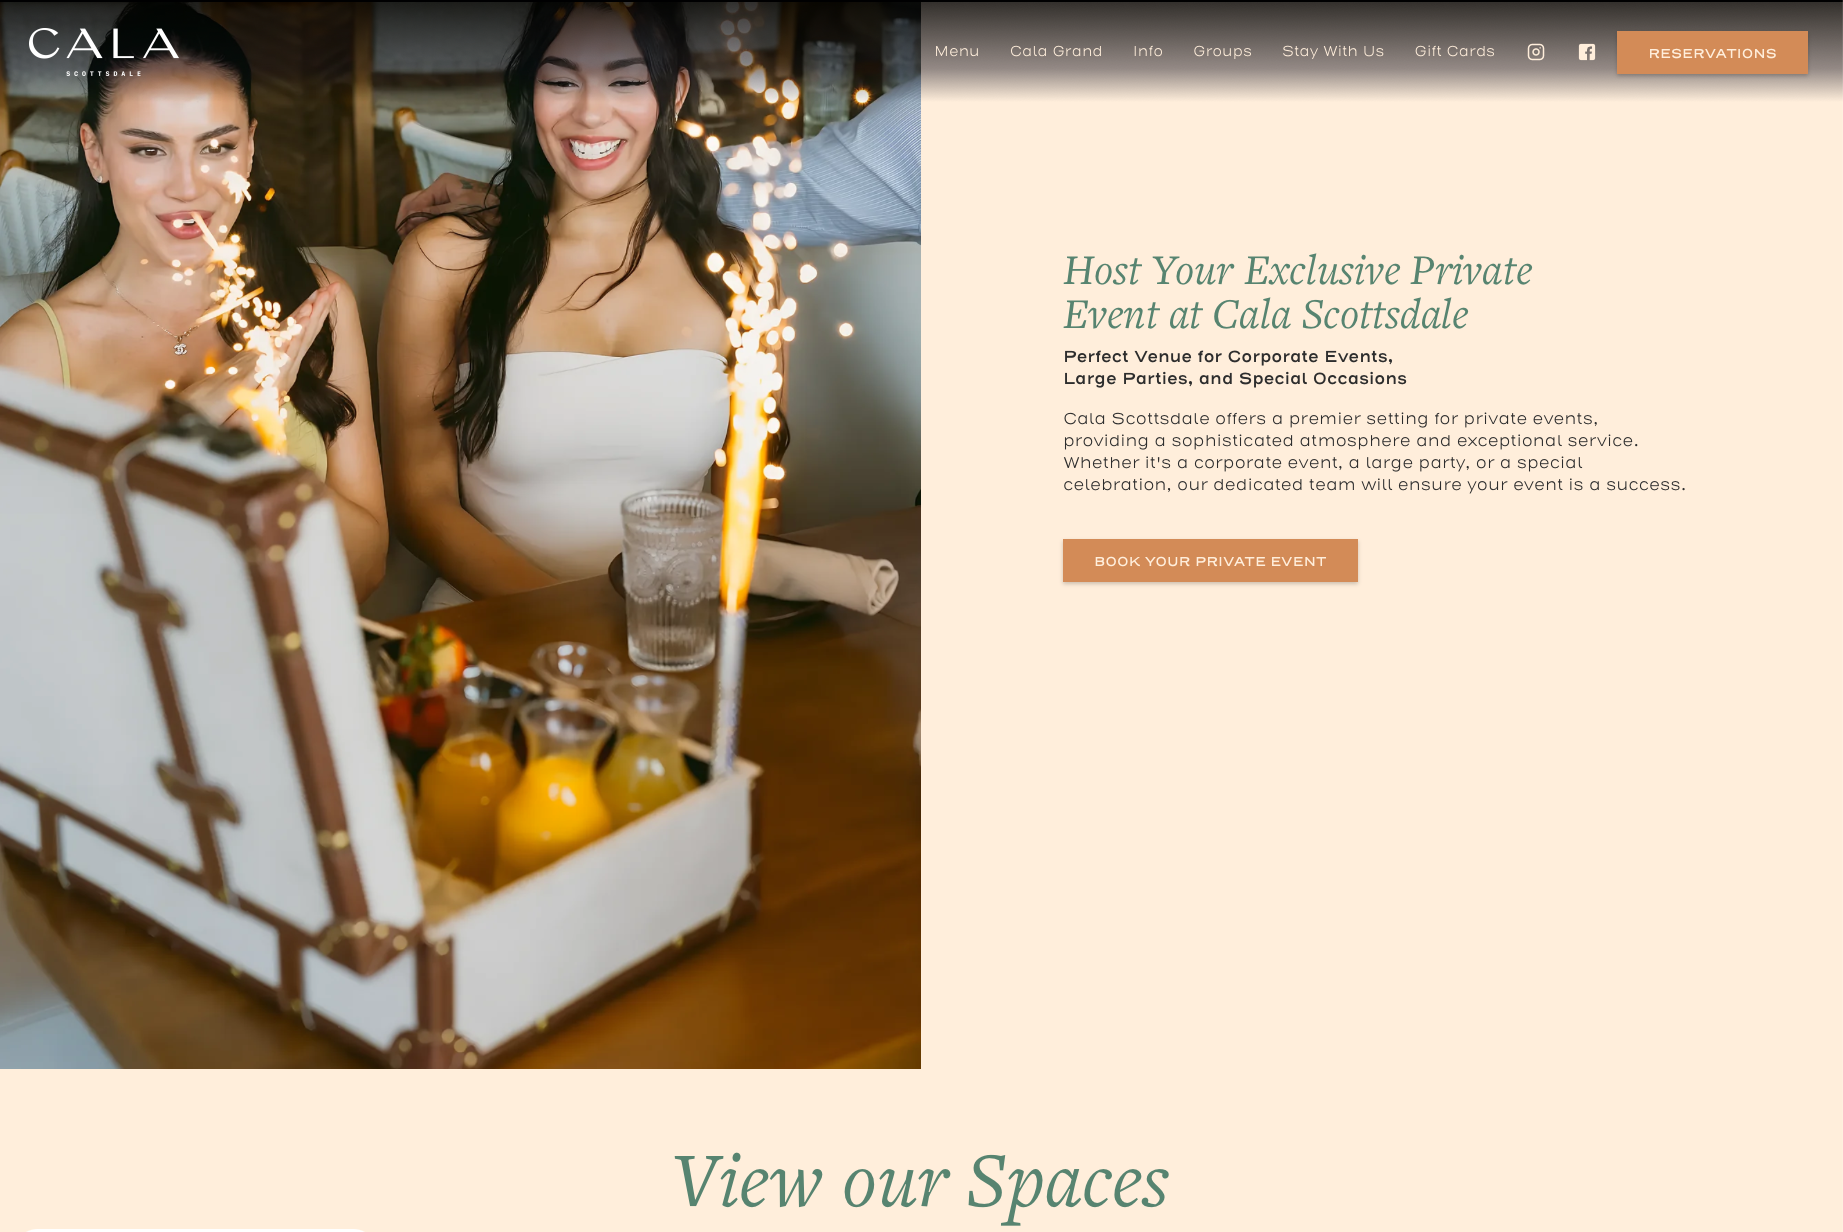
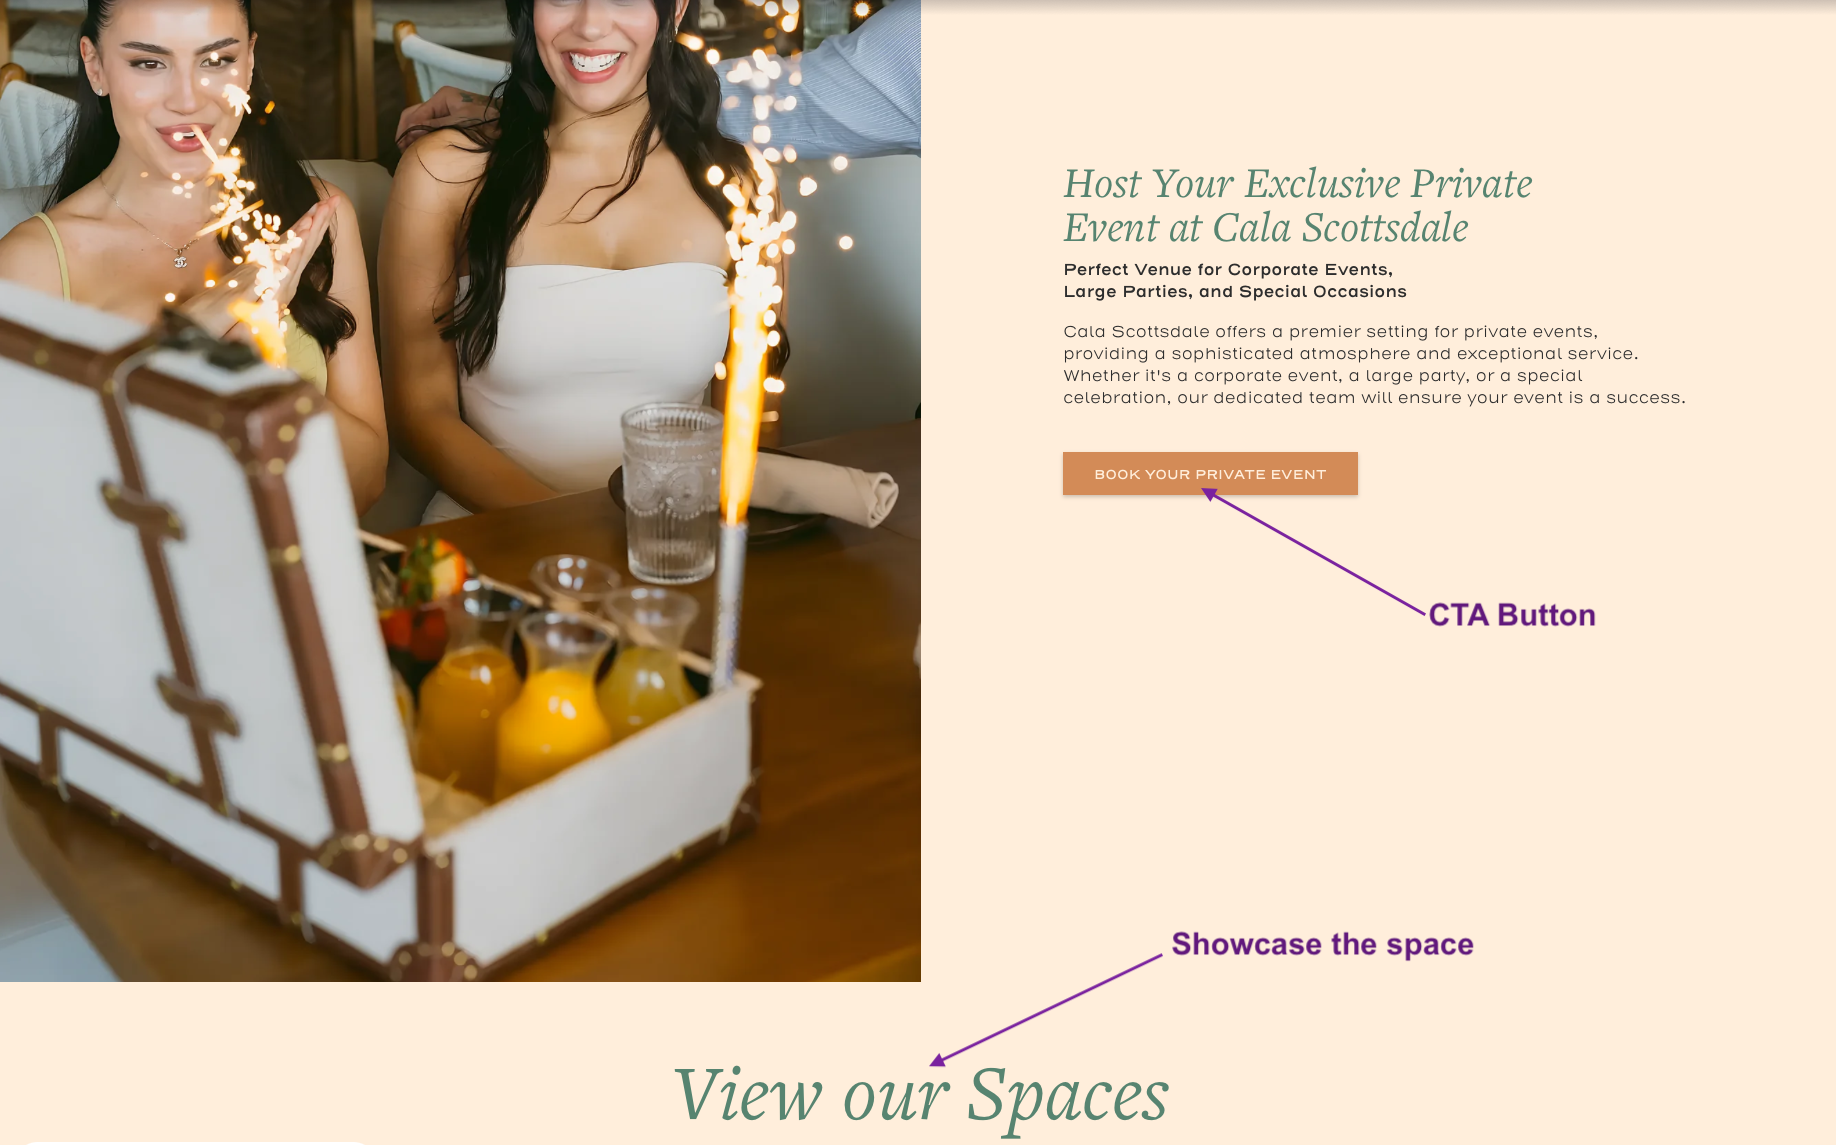
Replace CTA example with annotated version, add RECREO form example
The CTA-near-the-top screenshot now shows the labeled arrows ("CTA
Button", "Showcase the space") pointing at the actual elements, shown
uncropped so both annotations are visible. Added a second inquiry-form
example (Recreo Cantina, branded mobile form) alongside the existing
one, sized down to keep the page on one printed sheet.

Claude-Session: https://claude.ai/code/session_01D5JgJ3ZGAdM8L5fm5NQDZ6

diff --git a/public/private-event-lead-gen-playbook.html b/public/private-event-lead-gen-playbook.html
@@ -292,8 +292,8 @@
     .example-grid .shot-frame img { width: 100%; height: 100%; object-fit: cover; display: block; }
     .example-grid .cap { margin-top: 6px; font-size: 7.5pt; color: #999; text-align: center; }
     .example-wide { grid-column: 1 / -1; }
-    .example-wide .shot-frame { height: 220px; }
-    .example-wide .shot-frame img { object-position: top; }
+    .example-wide .shot-frame { height: auto; max-width: 82%; margin: 0 auto; }
+    .example-wide .shot-frame img { width: 100%; height: auto; object-fit: initial; }
     .callout strong { color: var(--purple); }
 
     table.data-table { width: 100%; border-collapse: collapse; margin: 10px 0 14px; font-size: 8.5pt; }
@@ -587,16 +587,24 @@
     <div class="example-grid">
       <div class="example-wide">
         <div class="shot-frame"><img src="/images/playbook-example-landingpage-cta.png" alt="Example private-events landing page with a booking CTA button placed near the top" /></div>
-        <div class="cap">The booking button sits right in the hero — no scrolling required.</div>
+        <div class="cap">The CTA button sits right in the hero, with real photos of the space just below it — no scrolling required.</div>
       </div>
     </div>
 
-    <h2>Example: Inquiry Form</h2>
-    <div style="max-width: 200px; margin: 0 auto;">
-      <div style="border-radius: 10px; overflow: hidden; box-shadow: 0 4px 14px rgba(0,0,0,0.1);">
-        <img src="/images/playbook-example-inquiry-form.png" alt="Example detailed private-event inquiry form" style="width: 100%; height: auto; display: block;" />
+    <h2>Example: Inquiry Forms</h2>
+    <div style="display: flex; gap: 20px; justify-content: center; align-items: flex-start;">
+      <div style="text-align: center;">
+        <div style="border-radius: 10px; overflow: hidden; box-shadow: 0 4px 14px rgba(0,0,0,0.1); display: inline-block;">
+          <img src="/images/playbook-example-inquiry-form-recreo.png" alt="Example branded private-event inquiry form for Recreo Cantina" style="height: 175px; width: auto; display: block;" />
+        </div>
+        <div style="margin-top: 6px; font-size: 7.5pt; color: #999; max-width: 170px;">Branded form — matches the venue's look and feel.</div>
       </div>
-      <div style="margin-top: 6px; font-size: 7.5pt; color: #999; text-align: center;">Captures event details up front for faster follow-up.</div>
+      <div style="text-align: center;">
+        <div style="border-radius: 10px; overflow: hidden; box-shadow: 0 4px 14px rgba(0,0,0,0.1); display: inline-block;">
+          <img src="/images/playbook-example-inquiry-form.png" alt="Example detailed private-event inquiry form" style="height: 175px; width: auto; display: block;" />
+        </div>
+        <div style="margin-top: 6px; font-size: 7.5pt; color: #999; max-width: 170px;">Captures event details up front for faster follow-up.</div>
+      </div>
     </div>
 
     <div class="page-footer"><span>Event Sphere Solutions</span><span>08</span></div>
